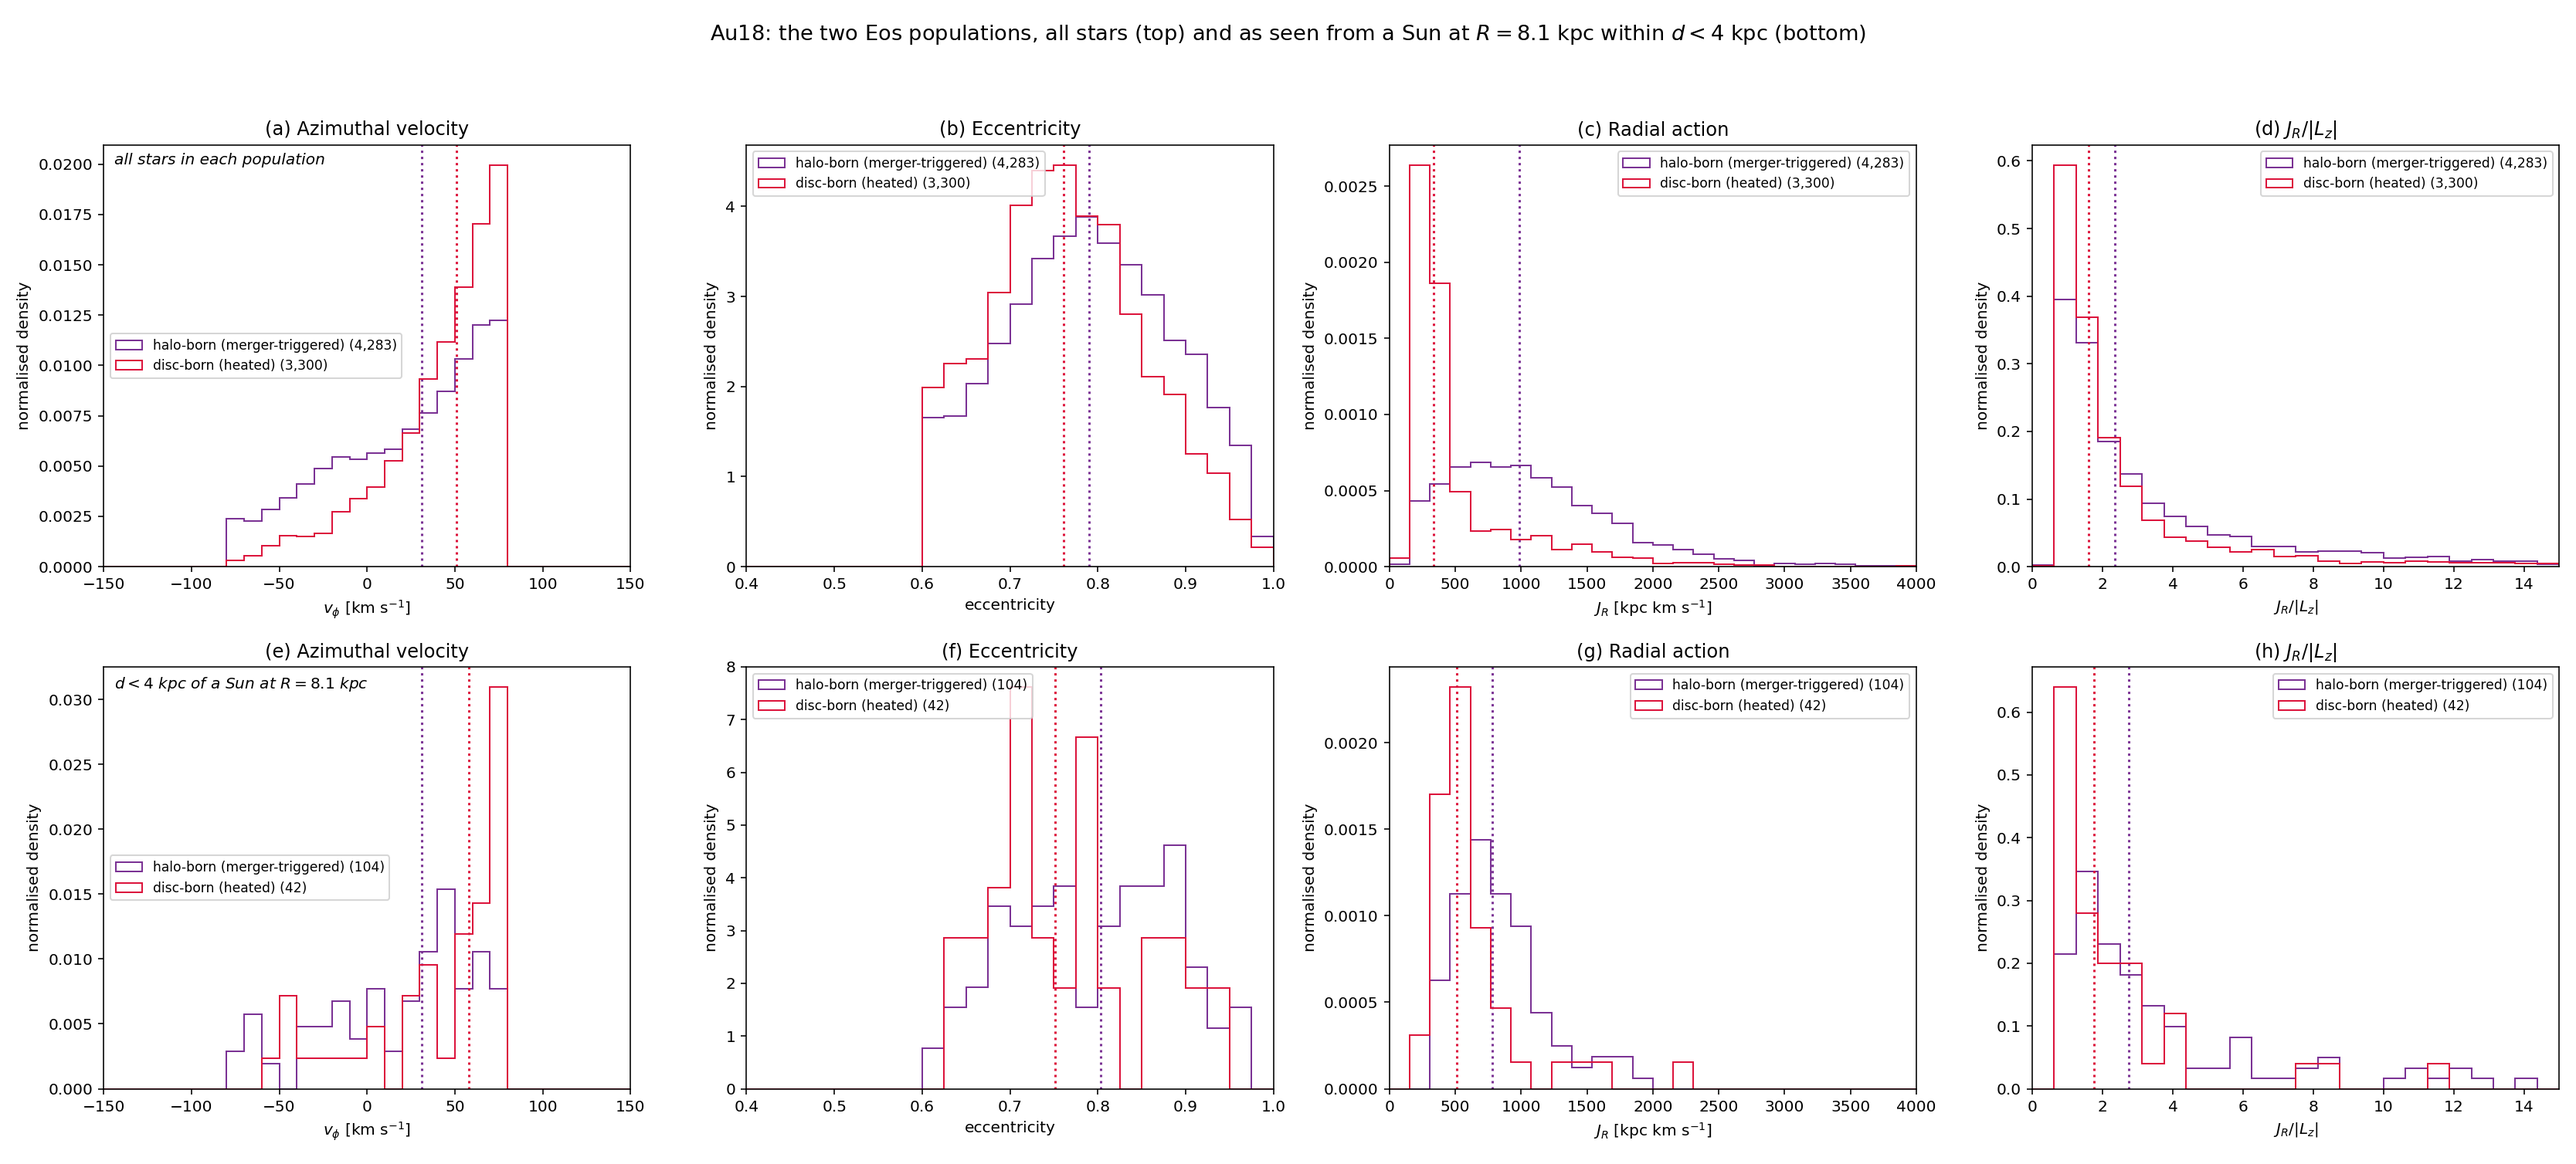
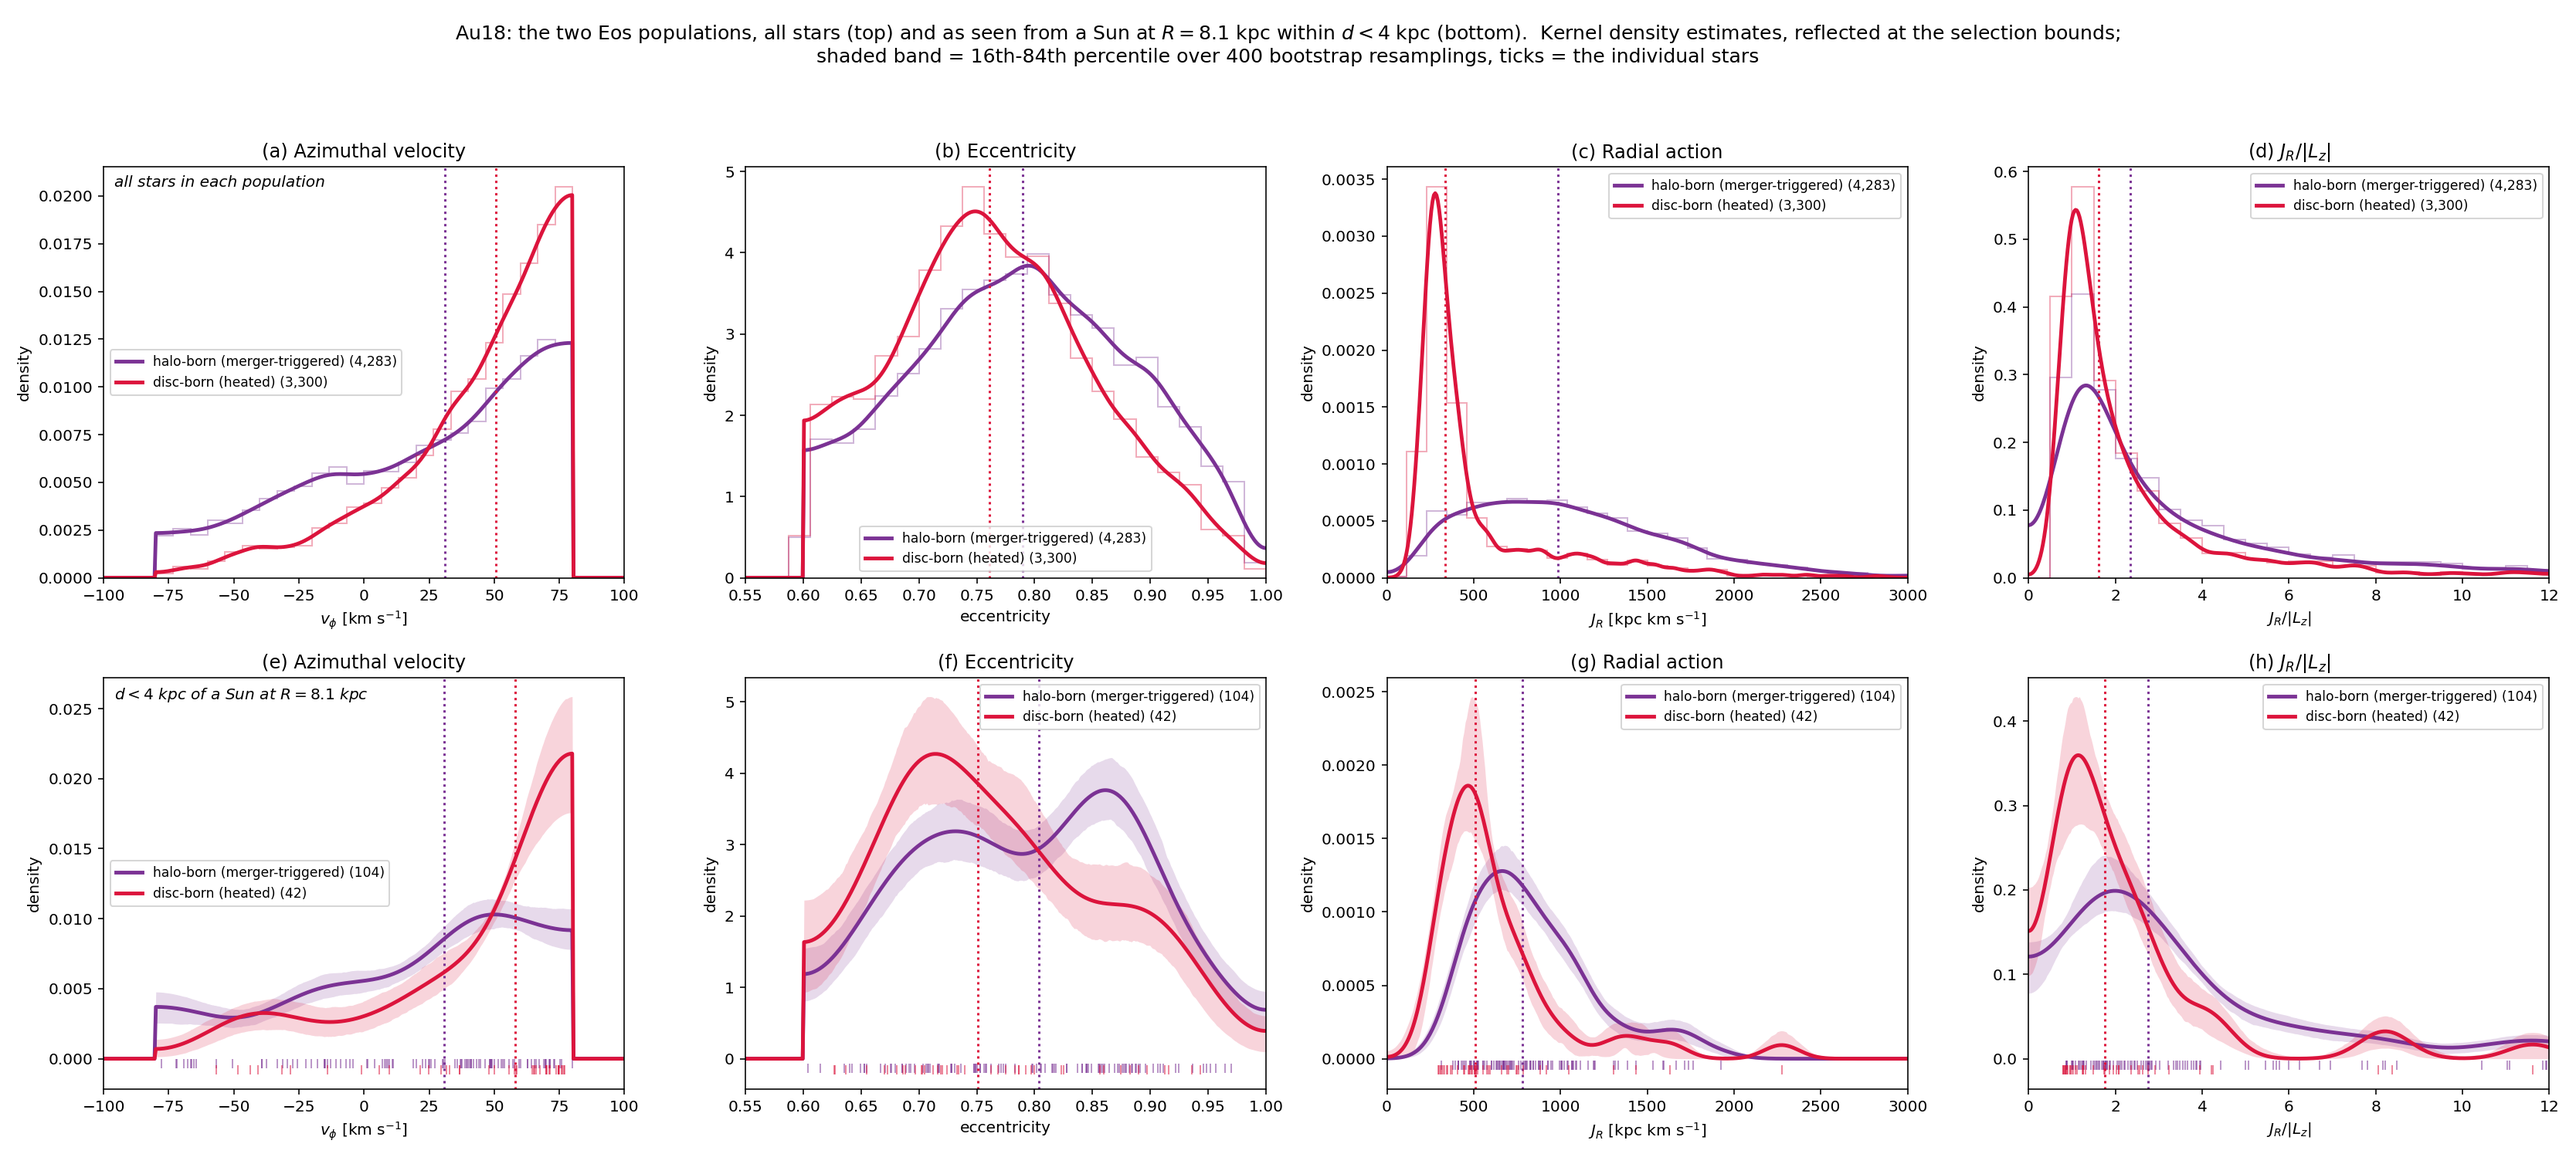
Draw the Eos kinematic distributions as KDEs with bootstrap bands
The solar-neighbourhood samples are only ~70-100 stars and the histogram binning
was dominating their shape. Both rows are now kernel density estimates, with
three things added to keep that honest:

- kernels are reflected at the hard edges of the selection (|v_phi| < 80,
  ecc > 0.6) and at the physical floors J_R > 0 and J_R/|L_z| > 0, since a plain
  KDE spills across them and invents density the sample cannot reach;
- the bottom row carries a bootstrap band, the 16th-84th percentile over 400
  resamplings, which is the honest width of what ~100 stars constrain, plus a rug
  of the individual stars;
- the top row keeps a faint histogram behind each curve so the KDE can be checked
  where the sample is large.

The bandwidth uses a robust scale, min(sigma, IQR/1.349), rather than scipy's
default. J_R/|L_z| has a heavy tail -- sigma is 160 and 613 for the two
populations against an interquartile range of order unity -- and Scott's rule
driven by that sigma flattened the distribution into a nearly horizontal line
bearing no resemblance to its own histogram.

With the bands drawn, the local J_R separation is visibly marginal: the two
curves cross and their bands overlap over most of the range.

diff --git a/auriga/ana_eos_origins_solar.py b/auriga/ana_eos_origins_solar.py
@@ -12,13 +12,23 @@ axisymmetric; eight azimuths are run and the spread between them is reported.
 
 Top row is the full population, bottom row the solar-neighbourhood selection, so
 the effect of the selection can be read directly.
+
+Both rows are drawn as kernel density estimates rather than histograms, because
+the local samples are only ~70-100 stars and the binning dominated the shape.
+Two things are done to keep that honest.  The kernels are reflected at the hard
+edges of the selection -- |v_phi| < 80, ecc > 0.6, and the physical floors
+J_R > 0 and J_R/|L_z| > 0 -- since a plain KDE spills across them and invents
+density where the sample cannot reach.  And the bottom row carries a bootstrap
+band, the 16th-84th percentile of 400 resamplings, which is the honest width of
+what ~100 stars constrain; the top row shows a faint histogram behind the curve
+so the KDE can be checked where the sample is large.
 """
 import os, sys
 import numpy as np
 import matplotlib
 matplotlib.use('Agg')
 import matplotlib.pyplot as plt
-from scipy.stats import ks_2samp
+from scipy.stats import ks_2samp, gaussian_kde
 sys.path.insert(0, os.path.dirname(os.path.dirname(os.path.abspath(__file__))))
 import config_au18 as C
 import eos_origins as EO
@@ -54,26 +64,84 @@ sun0 = solar_mask(AZ[0])
 
 C_HALO, C_DISC = '#7b3294', 'crimson'
 fin = np.isfinite(d['Jr']) & np.isfinite(d['ecc'])
-PANELS = [('zvphi', r'$v_\phi$ [km s$^{-1}$]', np.linspace(-150, 150, 31), 'Azimuthal velocity'),
-          ('ecc', 'eccentricity', np.linspace(0.4, 1.0, 25), 'Eccentricity'),
-          ('Jr', r'$J_R$ [kpc km s$^{-1}$]', np.linspace(0, 4000, 27), 'Radial action'),
-          ('JrLz', r'$J_R/|L_z|$', np.linspace(0, 15, 25), '$J_R/|L_z|$')]
+# bounds are the hard edges of the selection or of the quantity itself
+PANELS = [('zvphi', r'$v_\phi$ [km s$^{-1}$]', np.linspace(-100, 100, 31), 'Azimuthal velocity', (-80., 80.)),
+          ('ecc', 'eccentricity', np.linspace(0.55, 1.0, 25), 'Eccentricity', (0.6, 1.0)),
+          ('Jr', r'$J_R$ [kpc km s$^{-1}$]', np.linspace(0, 3000, 27), 'Radial action', (0., None)),
+          ('JrLz', r'$J_R/|L_z|$', np.linspace(0, 12, 25), '$J_R/|L_z|$', (0., None))]
+
+
+def kde_reflected(v, grid, bounds, bw=None):
+    """Gaussian KDE with reflection at hard bounds, so no density leaks past them.
+
+    The bandwidth uses a ROBUST scale, min(sigma, IQR/1.349), rather than scipy's
+    default.  J_R/|L_z| has a heavy tail -- the standard deviation is 160 and 613
+    for the two populations against an interquartile range of order unity -- and
+    Scott's rule driven by that sigma smears the distribution into a flat line
+    that bears no resemblance to the histogram.
+    """
+    v = np.asarray(v, float)
+    v = v[np.isfinite(v)]
+    if len(v) < 5 or np.std(v) == 0:
+        return None
+    if bw is None:
+        sig = np.std(v)
+        iqr = np.subtract(*np.percentile(v, [75, 25]))
+        scale = min(sig, iqr / 1.349) if iqr > 0 else sig
+        bw = 0.9 * scale * len(v) ** (-0.2) / sig      # scipy multiplies by sigma
+    k = gaussian_kde(v, bw_method=bw)
+    out = k(grid)
+    lo, hi = bounds
+    if lo is not None:
+        out += k(2 * lo - grid)
+    if hi is not None:
+        out += k(2 * hi - grid)
+    if lo is not None:
+        out[grid < lo] = 0.
+    if hi is not None:
+        out[grid > hi] = 0.
+    return out
+
+
+def kde_band(v, grid, bounds, nboot=400, rng=None):
+    """16th-84th percentile of the KDE over bootstrap resamplings."""
+    rng = rng or np.random.default_rng(11)
+    v = np.asarray(v, float); v = v[np.isfinite(v)]
+    curves = []
+    for _ in range(nboot):
+        c = kde_reflected(rng.choice(v, len(v), replace=True), grid, bounds)
+        if c is not None:
+            curves.append(c)
+    if not curves:
+        return None, None
+    return np.percentile(curves, [16, 84], axis=0)
 
 fig, axes = plt.subplots(2, 4, figsize=(23, 10.4))
 for row, (sel, tag) in enumerate([(np.ones(len(d['ids']), bool), 'all stars in each population'),
                                   (sun0, f'$d<{DMAX:.0f}$ kpc of a Sun at $R={RSUN}$ kpc')]):
-    for col, (key, xlab, bins, title) in enumerate(PANELS):
+    for col, (key, xlab, bins, title, bounds) in enumerate(PANELS):
         ax = axes[row, col]
+        grid = np.linspace(bins[0], bins[-1], 400)
         for lab, m, c in [('halo-born (merger-triggered)', d['halo_born'], C_HALO),
                           ('disc-born (heated)', d['disc_born'], C_DISC)]:
             v = d[key][m & fin & sel]
             v = v[np.isfinite(v)]
             if len(v) < 5:
                 continue
-            ax.hist(v, bins=bins, density=True, histtype='step', lw=2.3, color=c,
-                    label=f'{lab} ({len(v):,})')
+            if row == 0:                       # faint histogram to check the KDE against
+                ax.hist(v, bins=bins, density=True, histtype='step', lw=1.0,
+                        color=c, alpha=.35)
+            curve = kde_reflected(v, grid, bounds)
+            if curve is not None:
+                ax.plot(grid, curve, color=c, lw=2.4, label=f'{lab} ({len(v):,})')
+            if row == 1:
+                lo, hi = kde_band(v, grid, bounds)
+                if lo is not None:
+                    ax.fill_between(grid, lo, hi, color=c, alpha=.18, lw=0)
+                ax.plot(v, np.full(len(v), -0.03 * ax.get_ylim()[1]), '|', color=c,
+                        ms=6, alpha=.5)
             ax.axvline(np.median(v), color=c, ls=':', lw=1.5)
-        ax.set(xlabel=xlab, ylabel='normalised density', xlim=(bins[0], bins[-1]),
+        ax.set(xlabel=xlab, ylabel='density', xlim=(bins[0], bins[-1]),
                title=f'({"abcd efgh"[row * 5 + col]}) {title}')
         ax.legend(fontsize=8.5)
     axes[row, 0].text(.02, .98, tag, transform=axes[row, 0].transAxes, va='top',
@@ -81,7 +149,9 @@ for row, (sel, tag) in enumerate([(np.ones(len(d['ids']), bool), 'all stars in e
                       bbox=dict(fc='white', alpha=.85, ec='none'))
 
 fig.suptitle(f'Au18: the two Eos populations, all stars (top) and as seen from a Sun at '
-             f'$R={RSUN}$ kpc within $d<{DMAX:.0f}$ kpc (bottom)', fontsize=13.5)
+             f'$R={RSUN}$ kpc within $d<{DMAX:.0f}$ kpc (bottom).  Kernel density estimates, '
+             f'reflected at the selection bounds;\nshaded band = 16th-84th percentile over 400 '
+             f'bootstrap resamplings, ticks = the individual stars', fontsize=12.5)
 fig.tight_layout(rect=[0, 0, 1, .95])
 out = C.FIG_DIR + '/au18_eos_origins_solar.png'
 fig.savefig(out, dpi=145)
@@ -96,7 +166,7 @@ print(f'{"N":12s} {(d["halo_born"] & fin).sum():10,} {(d["disc_born"] & fin).sum
       f'{int(np.median(nh)):12,} {int(np.median(nd)):7,}   '
       f'(range over azimuth {min(nh)}-{max(nh)} and {min(nd)}-{max(nd)})')
 print()
-for key, xlab, bins, title in PANELS:
+for key, xlab, bins, title, bounds in PANELS:
     a_all = d[key][d['halo_born'] & fin]; b_all = d[key][d['disc_born'] & fin]
     a_all = a_all[np.isfinite(a_all)]; b_all = b_all[np.isfinite(b_all)]
     ks_all = ks_2samp(a_all, b_all)
